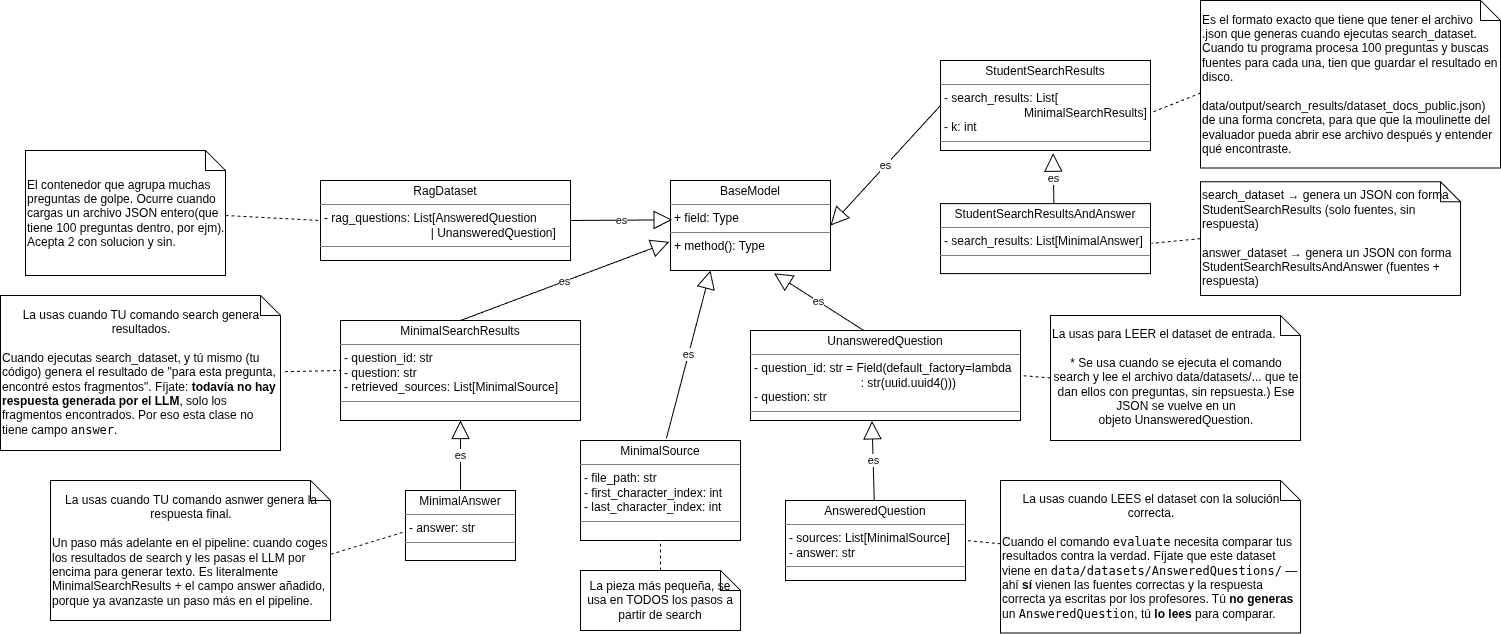
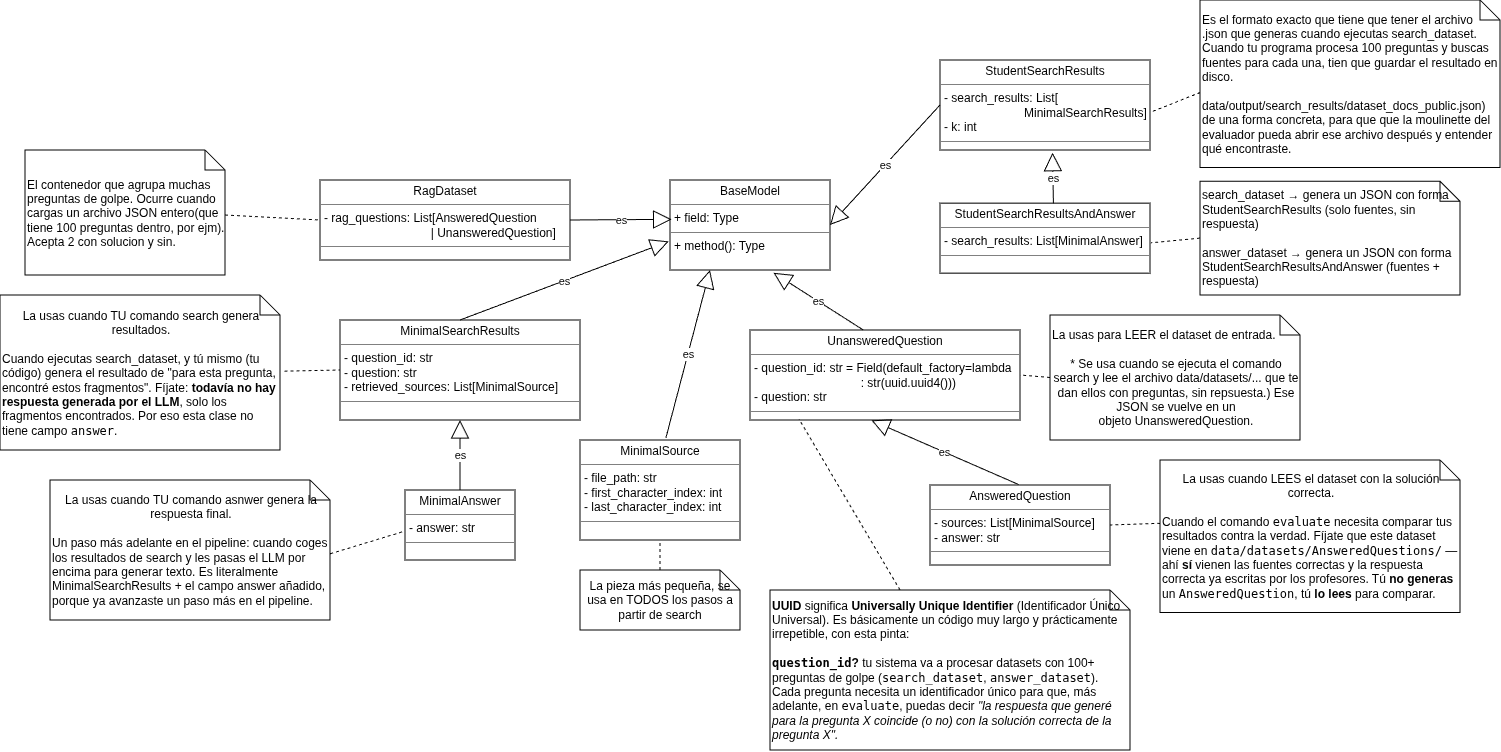
adding more theory

diff --git a/test_manual.py b/test_manual.py
@@ -4,16 +4,24 @@ from src.chunkers.markdown_chunker import MarkdownChunker
 # s = MinimalSource(
 #     file_path="fake/path.py", first_character_index=0, last_character_index=100
 # )
+
+
+s = MinimalSource(
+    file_path="vllm/engine/llm.py", first_character_index=100,
+    last_character_index=250
+)
+
+s_json = s.model_dump_json()
+print(s)
+print(s_json)
+
+MinimalSource.model_validate_json(s_json)
+
 # q = AnsweredQuestion(question="test", sources=[s], answer="respuesta")
 # print(q.question_id)
 # print(q.question)
 # print(q.model_dump_json())
 
-
-# MinimalSource(
-#     file_path="x.py", first_character_index="ESTO_ES_TEXTO", last_character_index=100
-# )
-# # ¿Lanza ValidationError?
 
 # chunker = MarkdownChunker()
 # chunks = chunker.chunk("README.md", max_chunk_size=2000)

diff --git a/checks/test_day02.py b/checks/test_day02.py
@@ -1,0 +1,15 @@
+from src.models import MinimalSource
+
+s = MinimalSource(
+    file_path="vllm/engine/llm.py",
+    first_character_index=100,
+    last_character_index=250
+)
+print("Objeto original: ", s)
+
+s_json = s.model_dump_json()
+print("JSON serializado: ", s_json)
+
+s2 = MinimalSource.model_validate_json(s_json)
+print("Objeto reconstruido: ", s2)
+print("¿Son iguales?", s == s2)